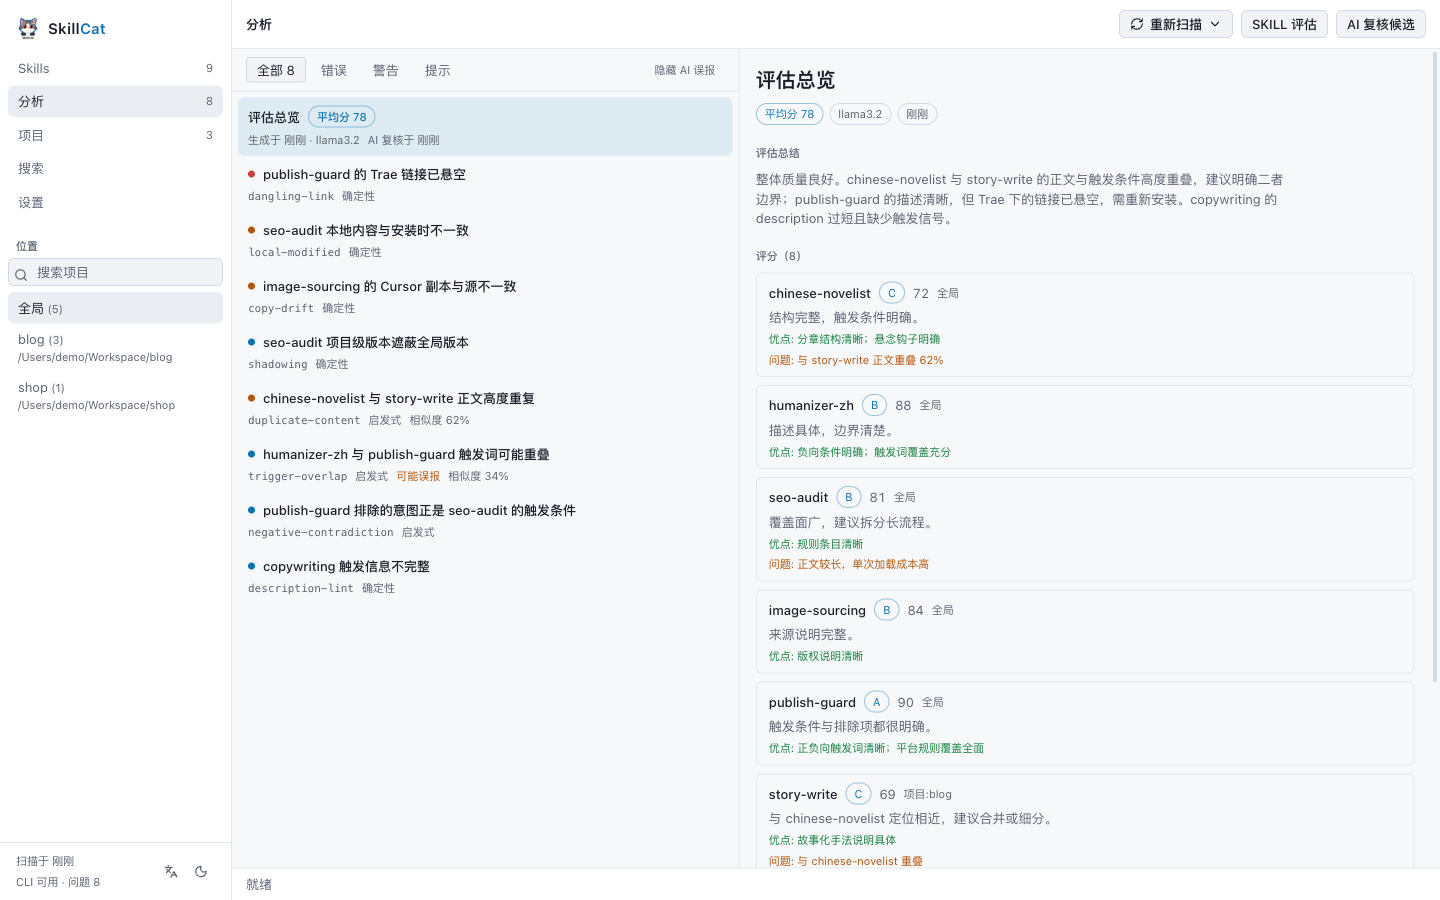
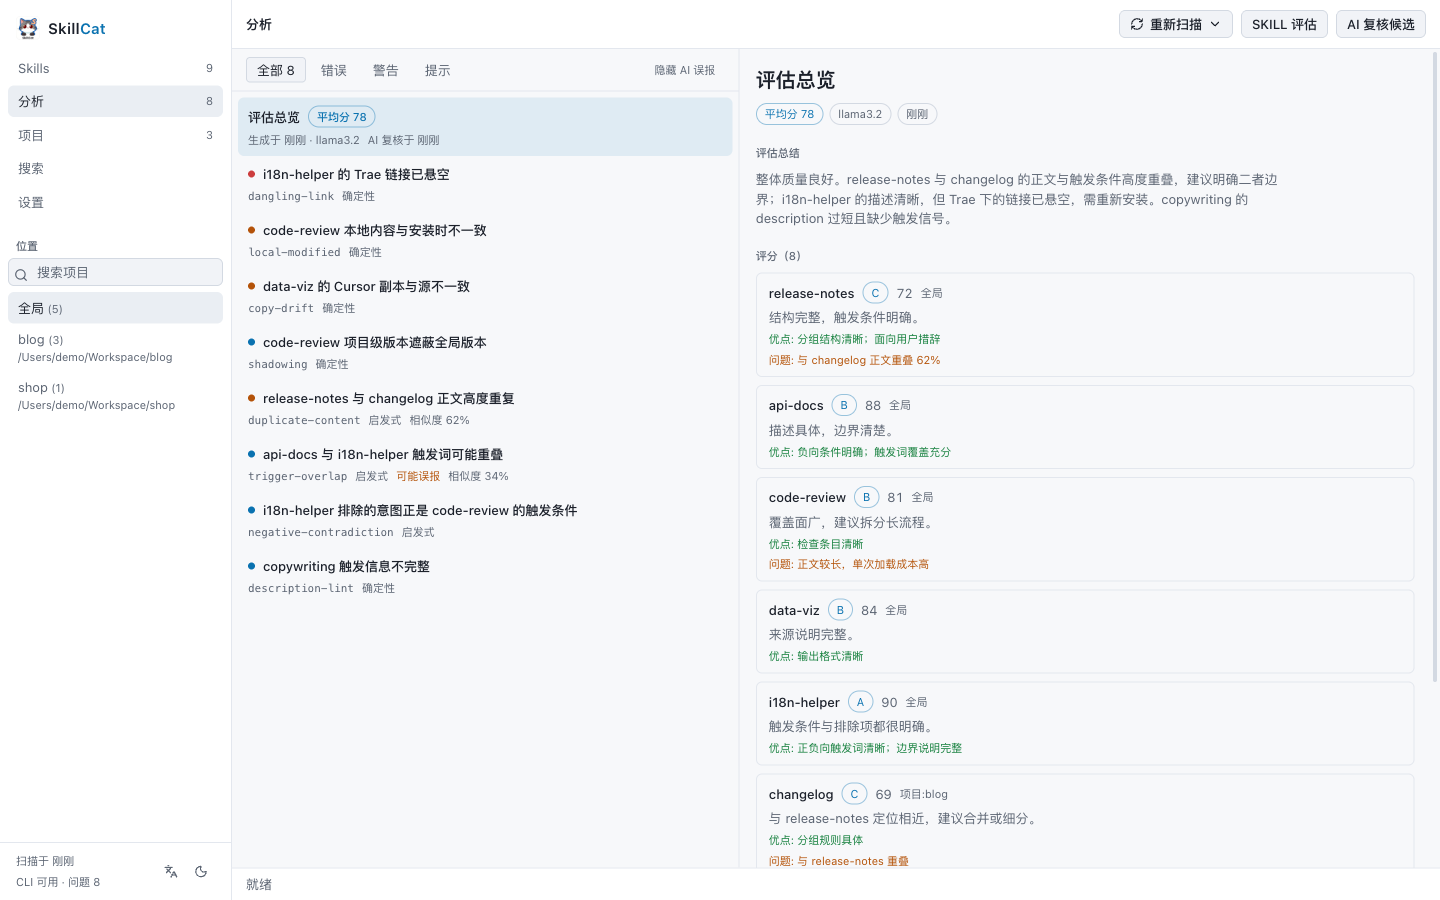
Split dev and build config; Update readme

diff --git a/packages/core/src/__tests__/remote-search.test.ts b/packages/core/src/__tests__/remote-search.test.ts
@@ -48,17 +48,17 @@ describe('fetchLeaderboardApi', () => {
     const { impl, calls } = fakeFetch({
       skills: [
         {
-          source: 'vercel-labs/skills',
-          skillId: 'find-skills',
-          name: 'find-skills',
+          source: 'acme/skills',
+          skillId: 'pdf-tools',
+          name: 'pdf-tools',
           installs: 3465509,
           weeklyInstalls: [1, 2, 3],
           isOfficial: true,
         },
         {
-          source: 'mattpocock/skills',
-          skillId: 'grill-me',
-          name: 'grill-me',
+          source: 'acme/devtools',
+          skillId: 'code-review',
+          name: 'code-review',
           installs: 1175111,
         },
       ],
@@ -68,21 +68,21 @@ describe('fetchLeaderboardApi', () => {
     expect(calls).toEqual(['https://skills.sh/api/skills/all-time/0']);
     expect(results).toHaveLength(2);
     expect(results[0]).toMatchObject({
-      name: 'find-skills',
-      source: 'vercel-labs/skills',
-      slug: 'vercel-labs/skills/find-skills',
+      name: 'pdf-tools',
+      source: 'acme/skills',
+      slug: 'acme/skills/pdf-tools',
       installs: 3465509,
       weeklyInstalls: [1, 2, 3],
       isOfficial: true,
     });
-    expect(results[1]).toMatchObject({ name: 'grill-me', installs: 1175111 });
+    expect(results[1]).toMatchObject({ name: 'code-review', installs: 1175111 });
     expect(results[1]?.weeklyInstalls).toBeUndefined();
     expect(results[1]?.isOfficial).toBeUndefined();
   });
 
   it('surfaces change for the hot leaderboard and rejects bad responses', async () => {
     const { impl } = fakeFetch({
-      skills: [{ source: 'op7418/humanizer-zh', skillId: 'humanizer-zh', installs: 6, change: 2 }],
+      skills: [{ source: 'acme/writing', skillId: 'copy-edit', installs: 6, change: 2 }],
     });
     const results = await fetchLeaderboardApi('hot', 0, impl);
     expect(results[0]?.change).toBe(2);

diff --git a/packages/core/src/__tests__/triggers.test.ts b/packages/core/src/__tests__/triggers.test.ts
@@ -23,20 +23,20 @@ describe('splitList', () => {
 describe('extractTriggers', () => {
   it('extracts structured when_to_use and dispatch_intent', () => {
     const profile = extractTriggers({
-      name: 'health',
+      name: 'config-audit',
       description:
         'Runs a budget-aware audit. Use when users ask to audit config or check drift. Not for debugging application code.',
       frontmatter: {
-        when_to_use: '检查claude, 检查codex, AGENTS.md, 健康度, 配置检查',
-        dispatch_intent: 'agent config audit, hooks/MCP broken',
+        when_to_use: '检查配置, 检查漂移, AGENTS.md, 健康度, 配置检查',
+        dispatch_intent: 'config audit, hooks/MCP broken',
       },
       body: '',
     });
 
     const positives = profile.positive.map((term) => term.text);
-    expect(positives).toContain('检查claude');
+    expect(positives).toContain('检查配置');
     expect(positives).toContain('AGENTS.md');
-    expect(profile.intents).toContain('agent config audit');
+    expect(profile.intents).toContain('config audit');
 
     const negatives = profile.negative.map((term) => term.text);
     expect(negatives.join('|')).toContain('debugging application code');
@@ -49,9 +49,9 @@ describe('extractTriggers', () => {
 
   it('extracts quoted chinese trigger words from description', () => {
     const profile = extractTriggers({
-      name: 'humanize-plus',
+      name: 'text-polish',
       description:
-        '对中文文章进行深度润色，去除 AI 写作痕迹。当用户要求润色文章、去 AI 味、做发布前优化、降噪处理、或提到"润色""去AI味""降噪""优化文章""polish"时触发。',
+        '一个文本润色工具。当用户要求润色文章、去 AI 味、降噪处理、或提到"润色""去AI味""降噪""优化文章""polish"时触发。',
       frontmatter: {},
       body: '',
     });

diff --git a/apps/desktop/src/renderer/src/__tests__/app.test.tsx b/apps/desktop/src/renderer/src/__tests__/app.test.tsx
@@ -449,9 +449,9 @@ describe('App', () => {
     const api = makeApi();
     vi.mocked(api.leaderboard).mockResolvedValue([
       {
-        name: 'find-skills',
-        slug: 'vercel-labs/skills/find-skills',
-        source: 'vercel-labs/skills',
+        name: 'pdf-tools',
+        slug: 'acme/skills/pdf-tools',
+        source: 'acme/skills',
         installs: 3_465_509,
         isOfficial: true,
       },
@@ -460,7 +460,7 @@ describe('App', () => {
 
     fireEvent.click(await screen.findByText('搜索'));
 
-    expect(await screen.findByText('find-skills')).toBeTruthy();
+    expect(await screen.findByText('pdf-tools')).toBeTruthy();
     expect(api.leaderboard).toHaveBeenCalledWith('all-time');
   });
 
@@ -468,22 +468,22 @@ describe('App', () => {
     const api = makeApi();
     vi.mocked(api.leaderboard).mockResolvedValue([
       {
-        name: 'find-skills',
-        slug: 'vercel-labs/skills/find-skills',
-        source: 'vercel-labs/skills',
+        name: 'pdf-tools',
+        slug: 'acme/skills/pdf-tools',
+        source: 'acme/skills',
         installs: 3_465_509,
       },
     ]);
     renderApp(api);
 
     fireEvent.click(await screen.findByText('搜索'));
-    expect(await screen.findByText('find-skills')).toBeTruthy();
+    expect(await screen.findByText('pdf-tools')).toBeTruthy();
     expect(api.leaderboard).toHaveBeenCalledTimes(1);
 
     fireEvent.click(screen.getByText('Skills'));
     fireEvent.click(screen.getByText('搜索'));
 
-    expect(await screen.findByText('find-skills')).toBeTruthy();
+    expect(await screen.findByText('pdf-tools')).toBeTruthy();
     expect(api.leaderboard).toHaveBeenCalledTimes(1);
   });
 

diff --git a/apps/desktop/src/main/index.ts b/apps/desktop/src/main/index.ts
@@ -1,6 +1,13 @@
-import { join } from 'node:path';
+import { dirname, join } from 'node:path';
 import { app, BrowserWindow, dialog, ipcMain, nativeImage, net, session, shell } from 'electron';
-import { isValidProxyUrl, normalizeProxyUrl, SkillManager, type ProxySettings } from '@skillcat/core';
+import {
+  APP_NAME,
+  getConfigDir,
+  isValidProxyUrl,
+  normalizeProxyUrl,
+  SkillManager,
+  type ProxySettings,
+} from '@skillcat/core';
 import pkg from '../../package.json';
 import { bootstrap } from './bootstrap';
 import { registerIpc } from './ipc';
@@ -25,7 +32,22 @@ function githubSlug(): string {
 
 const UPDATE_REPO = githubSlug();
 
-const manager = new SkillManager();
+/**
+ * Config directory for this build.
+ *
+ * Packaged builds use the default per-user location (`~/Library/Application
+ * Support/skillcat`, `%APPDATA%\skillcat`, …) so app updates never touch a
+ * user's settings. Development builds get a sibling `skillcat-dev` directory
+ * so they can never read or overwrite the packaged config. An explicit
+ * SKILLCAT_CONFIG_DIR / SKILLMAN_CONFIG_DIR always takes precedence.
+ */
+function resolveConfigDir(): string | undefined {
+  if (process.env.SKILLCAT_CONFIG_DIR || process.env.SKILLMAN_CONFIG_DIR) return undefined;
+  if (app.isPackaged) return undefined;
+  return join(dirname(getConfigDir()), `${APP_NAME}-dev`);
+}
+
+const manager = new SkillManager({ configDir: resolveConfigDir() });
 
 /**
  * Node's global fetch ignores proxy env vars set after process start, so the

diff --git a/packages/core/src/evaluation/prompt.ts b/packages/core/src/evaluation/prompt.ts
@@ -50,7 +50,7 @@ function systemPrompt(locale: EvaluationLocale): string {
     '- Be strict but fair. Reserve scores of 90+ for genuinely excellent skills.',
     '- Grade mapping: A = 90-100, B = 75-89, C = 60-74, D = below 60.',
     '- Be concise: at most 2 sentences per summary, at most 3 strengths and 3 issues per skill, titles under 12 words.',
-    '- In every prose field, refer to skills by their `name` (e.g. "humanizer-zh"). Never mention catalog ids like "s1" or "s45".',
+    '- In every prose field, refer to skills by their `name` (e.g. "pdf-tools"). Never mention catalog ids like "s1" or "s45".',
     '- Reply with a single JSON object and nothing else. No markdown, no code fences, no commentary.',
     '- Always close every array and object so the JSON is complete.',
     `- Write every prose field (summary, strengths, issues, title, detail, suggestion) in ${languageName(locale)}.`,

diff --git a/packages/core/src/__tests__/similarity.test.ts b/packages/core/src/__tests__/similarity.test.ts
@@ -49,13 +49,13 @@ describe('tokenize', () => {
 
 describe('computeOverlaps', () => {
   it('finds overlapping trigger terms', () => {
-    const a = record('humanize-plus', ['润色文章', '去AI味', '降噪处理']);
-    const b = record('humanizer-zh', ['润色文章', '去AI味', 'AI写作痕迹']);
+    const a = record('text-polish', ['润色文章', '去AI味', '降噪处理']);
+    const b = record('copy-edit', ['润色文章', '去AI味', 'AI写作痕迹']);
     const c = record('pdf-tools', ['合并PDF', '拆分PDF', '加水印']);
 
     const pairs = computeOverlaps([a, b, c], 0.2);
     expect(pairs.length).toBe(1);
-    expect([pairs[0]!.aName, pairs[0]!.bName].sort()).toEqual(['humanize-plus', 'humanizer-zh']);
+    expect([pairs[0]!.aName, pairs[0]!.bName].sort()).toEqual(['copy-edit', 'text-polish']);
     expect(pairs[0]!.shared.length).toBeGreaterThan(0);
   });
 

diff --git a/packages/core/src/__tests__/cli-output.test.ts b/packages/core/src/__tests__/cli-output.test.ts
@@ -10,11 +10,11 @@ const RESET = '\u001B[0m';
 
 describe('stripAnsi', () => {
   it('removes the escape sequences the skills CLI emits', () => {
-    expect(stripAnsi(`${TEXT}Updating chinese-novelist…${RESET}`)).toBe(
-      'Updating chinese-novelist…',
+    expect(stripAnsi(`${TEXT}Updating demo-skill…${RESET}`)).toBe(
+      'Updating demo-skill…',
     );
-    expect(stripAnsi(`  ${DIM}✓${RESET} Updated chinese-novelist`)).toBe(
-      '  ✓ Updated chinese-novelist',
+    expect(stripAnsi(`  ${DIM}✓${RESET} Updated demo-skill`)).toBe(
+      '  ✓ Updated demo-skill',
     );
   });
 

diff --git a/packages/core/src/similarity.ts b/packages/core/src/similarity.ts
@@ -145,7 +145,7 @@ export function computeOverlaps(records: SkillRecord[], threshold: number): Over
     for (let j = i + 1; j < n; j += 1) {
       const vectorA = vectors[i]!;
       const vectorB = vectors[j]!;
-      // Skills in the same family (hyperframes ↔ hyperframes-cli) are expected
+      // Skills in the same family (pdf ↔ pdf-tools) are expected
       // to share triggers; not an issue worth reporting.
       if (vectorA.name.startsWith(vectorB.name) || vectorB.name.startsWith(vectorA.name)) {
         continue;

diff --git a/docs/configuration.md b/docs/configuration.md
@@ -10,7 +10,24 @@ SkillCat 的所有持久化数据都放在**配置目录**，不写入 skill 目
 | Windows | `%APPDATA%\skillcat\` |
 | Linux | `$XDG_CONFIG_HOME/skillcat/`（默认 `~/.config/skillcat/`） |
 
-可用环境变量覆盖：`SKILLCAT_CONFIG_DIR`。旧变量 `SKILLMAN_CONFIG_DIR` 仍然兼容。
+可用环境变量覆盖：`SKILLCAT_CONFIG_DIR`。旧变量 `SKILLMAN_CONFIG_DIR` 仍然兼容；设置后两种构建都使用该目录。
+
+### 开发版与正式版隔离
+
+开发版（`pnpm desktop`）使用独立的 `skillcat-dev` 目录，与正式产物完全隔离，因此开发时的配置
+不会被正式版读取，正式版的配置也不会被开发版覆盖：
+
+| 构建 | 目录 |
+| --- | --- |
+| 正式产物（`pnpm dist:*` 打出的 app） | 上表中的 `skillcat/` |
+| 开发版（`pnpm desktop`） | 同级的 `skillcat-dev/`（macOS 为 `~/Library/Application Support/skillcat-dev/`） |
+
+正式产物的配置目录在所有版本间保持稳定：**覆盖安装 / 更新应用不会清除或覆盖用户配置**。配置
+从不进入 app 包（`electron-builder` 只打包 `out/**` 与 `package.json`），release 流程还会运行
+`pnpm check:secrets` 校验产物不含配置或密钥。
+
+> 因此，新用户首次打开正式版时项目目录为空（`roots`/`projects` 默认空），只会扫描全局作用域；
+> 需要用户自行配置扫描根或添加项目。
 
 ## 文件
 

diff --git a/docs/troubleshooting.md b/docs/troubleshooting.md
@@ -13,12 +13,23 @@
 
 ## 常见问题
 
+### 正式版里出现了我开发时的配置或 API Key
+
+配置目录按构建类型隔离：正式版用 `skillcat`，开发版（`pnpm desktop`）用 `skillcat-dev`，
+两者互不读取。配置也从不进入安装包（只打包 `out/**` 与 `package.json`），release 流程还会运行
+`pnpm check:secrets` 校验产物不含配置或密钥。
+
+若你在旧版本（两者共用同一目录）之后升级，正式版可能读到旧配置。删除
+`~/Library/Application Support/skillcat`（Windows 为 `%APPDATA%\skillcat`）后重开，即为干净首启
+（`roots`/`projects` 为空，只扫描全局）。注意这会同时清除该目录下的设置，请按需先备份。
+
 ### 应用打不开，提示"已损坏"或"无法验证开发者"
 
-产物未签名。macOS 首次打开下载副本时右键 → **打开**，或执行：
+产物未签名。macOS 上 Gatekeeper 会拦截首次打开，可右键 → **打开**，或清除隔离属性（应用位于
+`/Applications` 需要 `sudo`）：
 
 ```bash
-xattr -dr com.apple.quarantine /Applications/SkillCat.app
+sudo xattr -dr com.apple.quarantine /Applications/SkillCat.app
 ```
 
 Windows 上 SmartScreen 会提示未知发布者，选择 **更多信息 → 仍要运行**；企业环境可能还需要在

diff --git a/README.md b/README.md
@@ -84,11 +84,11 @@ Grab the latest build from the [Releases](https://github.com/Konata9/skillcat/re
   then drag **SkillCat** into `/Applications`.
 - **Windows** — `SkillCat-<version>-setup.exe`, then run the installer.
 
-The builds are unsigned. On macOS, the first launch of a downloaded copy needs right-click → **Open**,
-or run:
+The builds are unsigned. On macOS, Gatekeeper blocks the first launch of a downloaded copy — either
+right-click → **Open**, or clear the quarantine attribute (an app in `/Applications` requires `sudo`):
 
 ```bash
-xattr -dr com.apple.quarantine /Applications/SkillCat.app
+sudo xattr -dr com.apple.quarantine /Applications/SkillCat.app
 ```
 
 On Windows, SmartScreen may warn about an unknown publisher — choose **More info → Run anyway**.
